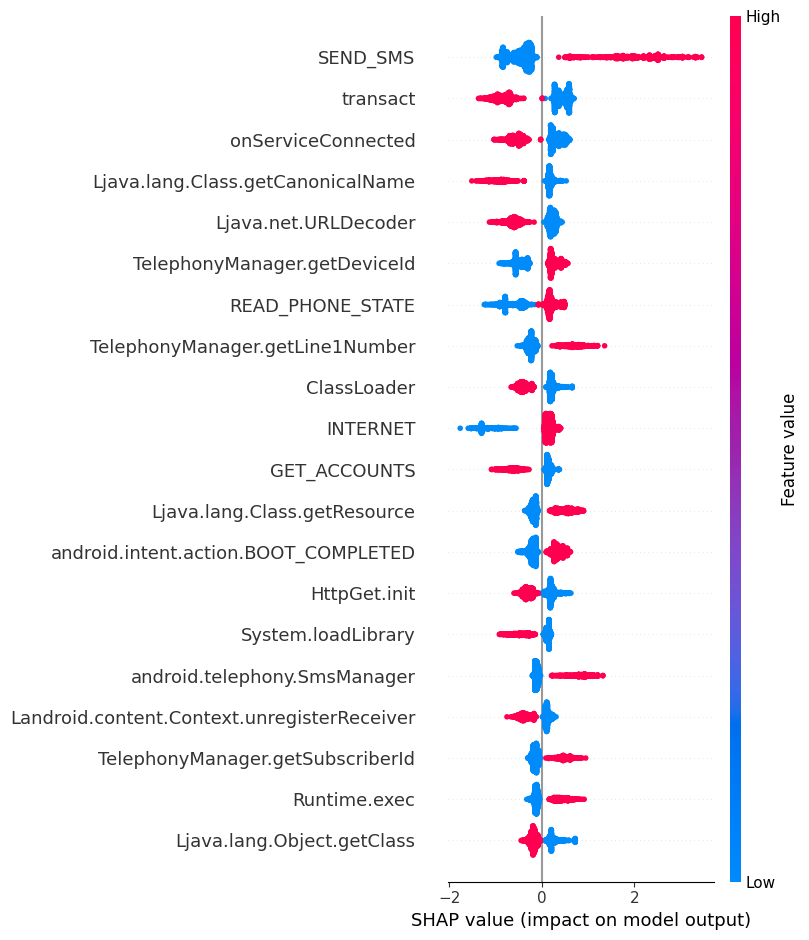
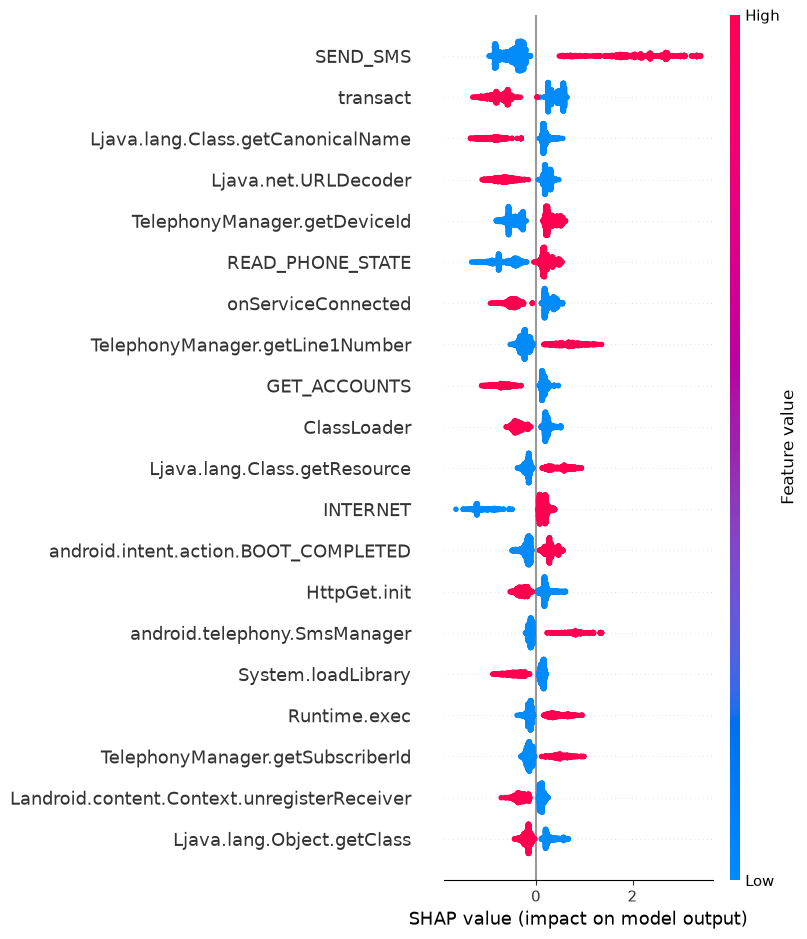
modified training

diff --git a/backend/training/feature_engineering.py b/backend/training/feature_engineering.py
@@ -1,61 +1,54 @@
 import pandas as pd
 import numpy as np
 
-# We stub SMOTE and StandardScaler if they aren't installed yet locally.
 try:
-    from sklearn.preprocessing import StandardScaler
     from imblearn.over_sampling import SMOTE
 except ImportError:
-    class StandardScaler:
-        def fit_transform(self, X): return X
     class SMOTE:
         def __init__(self, random_state=42): pass
         def fit_resample(self, X, y): return X, y
 
-def engineer_features(df, target_col='label'):
-    # numeric_only=True avoids the pandas FutureWarning / TypeError on mixed-type DataFrames
-    numeric_cols = df.select_dtypes(
-        include=["number"]
-    ).columns
-
-    for col in numeric_cols:
-        df[col].fillna(
-            df[col].median(),
-            inplace=True
-        )
-
-    df.replace({
-        True: 1,
-        False: 0,
-        "true": 1,
-        "false": 0,
-        "yes": 1,
-        "no": 0
-    }, inplace=True)
+def engineer_features(df):
+    # Dynamically detect the target column to prevent KeyErrors
+    target_col = 'label' if 'label' in df.columns else 'class'
     
+    if target_col not in df.columns:
+        raise KeyError(f"Could not find 'label' or 'class' column in dataset. Found: {df.columns.tolist()[-5:]}")
+
+    # 1. Explicitly Map Labels BEFORE anything else
+    df[target_col] = df[target_col].replace({'B': 0, 'S': 1, 'M': 1})
+    df[target_col] = pd.to_numeric(df[target_col], errors='coerce').fillna(1).astype(int)
+    
+    # 2. Handle missing data (Avoid Pandas 3.0 inplace=True warnings)
+    numeric_cols = df.select_dtypes(include=["number"]).columns
+    for col in numeric_cols:
+        df[col] = df[col].fillna(0)
+
+    # Convert booleans and string booleans to integers safely
+    df = df.replace({True: 1, False: 0, "true": 1, "false": 0, "yes": 1, "no": 0})
+    
+    # Drop columns with massive missing data
     missing_ratio = df.isnull().mean()
     to_drop = missing_ratio[missing_ratio > 0.4].index
-    df.drop(columns=to_drop, inplace=True)
+    df = df.drop(columns=to_drop)
     
     y = df[target_col]
     X = df.drop(columns=[target_col])
     
     feature_columns = X.columns.tolist()
     
-    scaler = StandardScaler()
-    X_scaled = scaler.fit_transform(X)
-    
+    # 3. Proper SMOTE Execution
     pos_count = sum(y == 1)
     neg_count = sum(y == 0)
     
     if neg_count == 0 or pos_count == 0:
-        return X_scaled, y, feature_columns, scaler
-
-    ratio = max(pos_count, neg_count) / min(pos_count, neg_count)
-    if ratio > 5.0:
-        smote = SMOTE(random_state=42)
-        X_res, y_res = smote.fit_resample(X_scaled, y)
-    else:
-        X_res, y_res = X_scaled, y
+        print(f"WARNING: Invalid class distribution. Pos: {pos_count}, Neg: {neg_count}")
+        return X, y, feature_columns
         
-    return X_res, y_res, feature_columns, scaler
+    print(f"Dataset Loaded. Before SMOTE -> Pos (Malware): {pos_count}, Neg (Benign): {neg_count}")
+    smote = SMOTE(random_state=42)
+    X_resampled, y_resampled = smote.fit_resample(X, y)
+    
+    print(f"After SMOTE Balancing -> Pos: {sum(y_resampled==1)}, Neg: {sum(y_resampled==0)}")
+    
+    return X_resampled, y_resampled, feature_columns

diff --git a/backend/training/train_xgboost.py b/backend/training/train_xgboost.py
@@ -15,7 +15,9 @@ from sklearn.metrics import (
     precision_score,
     recall_score,
     f1_score,
-    roc_auc_score
+    roc_auc_score,
+    confusion_matrix,
+    accuracy_score
 )
 
 # Support running as a module (python -m backend.training.train_xgboost)
@@ -30,16 +32,21 @@ except ImportError:
 
 _THIS_DIR = os.path.dirname(os.path.abspath(__file__))
 MODELS_DIR = os.path.normpath(os.path.join(_THIS_DIR, "..", "models"))
-
+PROJECT_ROOT = os.path.normpath(os.path.join(_THIS_DIR, "..", ".."))
+DATASET_PATH = os.path.join(PROJECT_ROOT, "dataset", "malware_dataset.csv")
 
 def train():
     if xgb is None or train_test_split is None:
         print("ERROR: xgboost or scikit-learn not installed. Run: pip install xgboost scikit-learn")
         return
 
-    print("Generating synthetic training data...")
     # Swap the comment below to use real Drebin/CIC-AndMal data once available:
-    df = pd.read_csv("dataset/malware_dataset.csv")
+    if not os.path.exists(DATASET_PATH):
+        print(f"FATAL ERROR: Could not find dataset at {DATASET_PATH}")
+        print("Please create the 'dataset' folder in your project root and place 'malware_dataset.csv' inside it.")
+        return
+
+    df = pd.read_csv(DATASET_PATH, low_memory=False)
 
     df["label"] = df["class"].map({
         "B": 0,
@@ -64,7 +71,7 @@ def train():
         df.drop(columns=non_numeric, inplace=True)
     
     print("Engineering features...")
-    X, y, feature_columns, scaler = engineer_features(df)
+    X, y, feature_columns = engineer_features(df)
 
     print("Splitting dataset...")
     X_train, X_test, y_train, y_test = train_test_split(
@@ -111,31 +118,21 @@ def train():
     y_pred = model.predict(X_test)
     y_prob = model.predict_proba(X_test)[:,1]
 
+    cm = confusion_matrix(y_test, y_pred)
+    tn, fp, fn, tp = cm.ravel()
+
     metrics = {
-        "auc": float(
-            roc_auc_score(
-                y_test,
-                y_prob
-            )
-        ),
-        "precision": float(
-            precision_score(
-                y_test,
-                y_pred
-            )
-        ),
-        "recall": float(
-            recall_score(
-                y_test,
-                y_pred
-            )
-        ),
-        "f1": float(
-            f1_score(
-                y_test,
-                y_pred
-            )
-        )
+        "accuracy": float(accuracy_score(y_test, y_pred)),
+        "auc": float(roc_auc_score(y_test, y_prob)),
+        "precision": float(precision_score(y_test, y_pred)),
+        "recall": float(recall_score(y_test, y_pred)),
+        "f1": float(f1_score(y_test, y_pred)),
+        "true_positives": int(tp),
+        "true_negatives": int(tn),
+        "false_positives": int(fp),
+        "false_negatives": int(fn),
+        "false_positive_rate": float(fp / max(fp + tn, 1)),
+        "false_negative_rate": float(fn / max(fn + tp, 1))
     }
 
     with open(os.path.join(MODELS_DIR,"model_metrics.json"),"w") as f:
@@ -162,10 +159,6 @@ def train():
     with open(cols_path, "w") as f:
         json.dump(feature_columns, f, indent=4)
     print(f"  Columns saved → {cols_path}")
-
-    scaler_path = os.path.join(MODELS_DIR, "scaler.pkl")
-    joblib.dump(scaler, scaler_path)
-    print(f"  Scaler saved  → {scaler_path}")
 
     print("Training complete.")
 